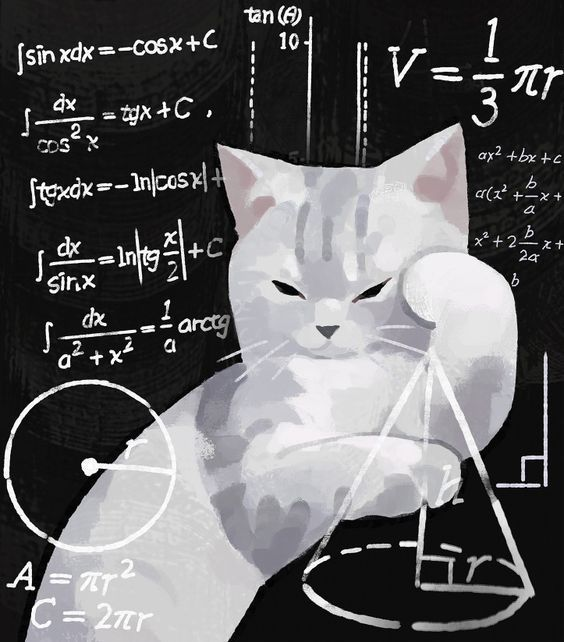
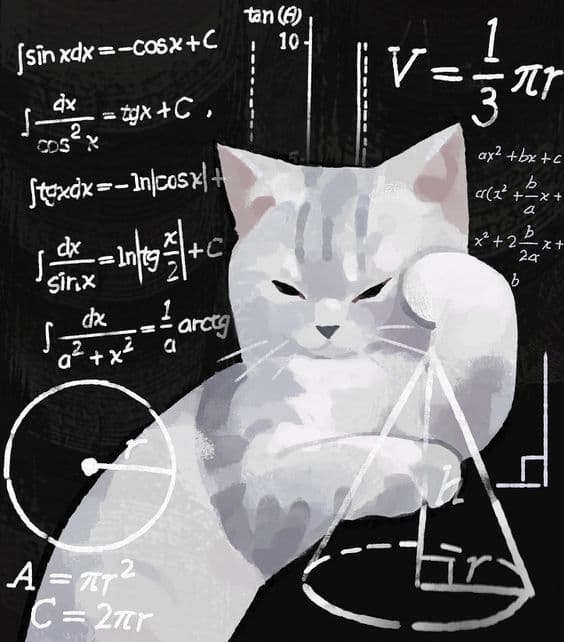
perf: compress image assets

diff --git a/components/layout/grid/AlbumCard.tsx b/components/layout/grid/AlbumCard.tsx
@@ -1,7 +1,7 @@
 import { ArrowUpRight } from '@phosphor-icons/react/dist/ssr'
 import Image from 'next/image'
 import Link from 'next/link'
-import beach from '@/assets/ablum/beach.jpg'
+import beach from '@/assets/images/beach.jpg'
 
 export function AlbumCard() {
   return (